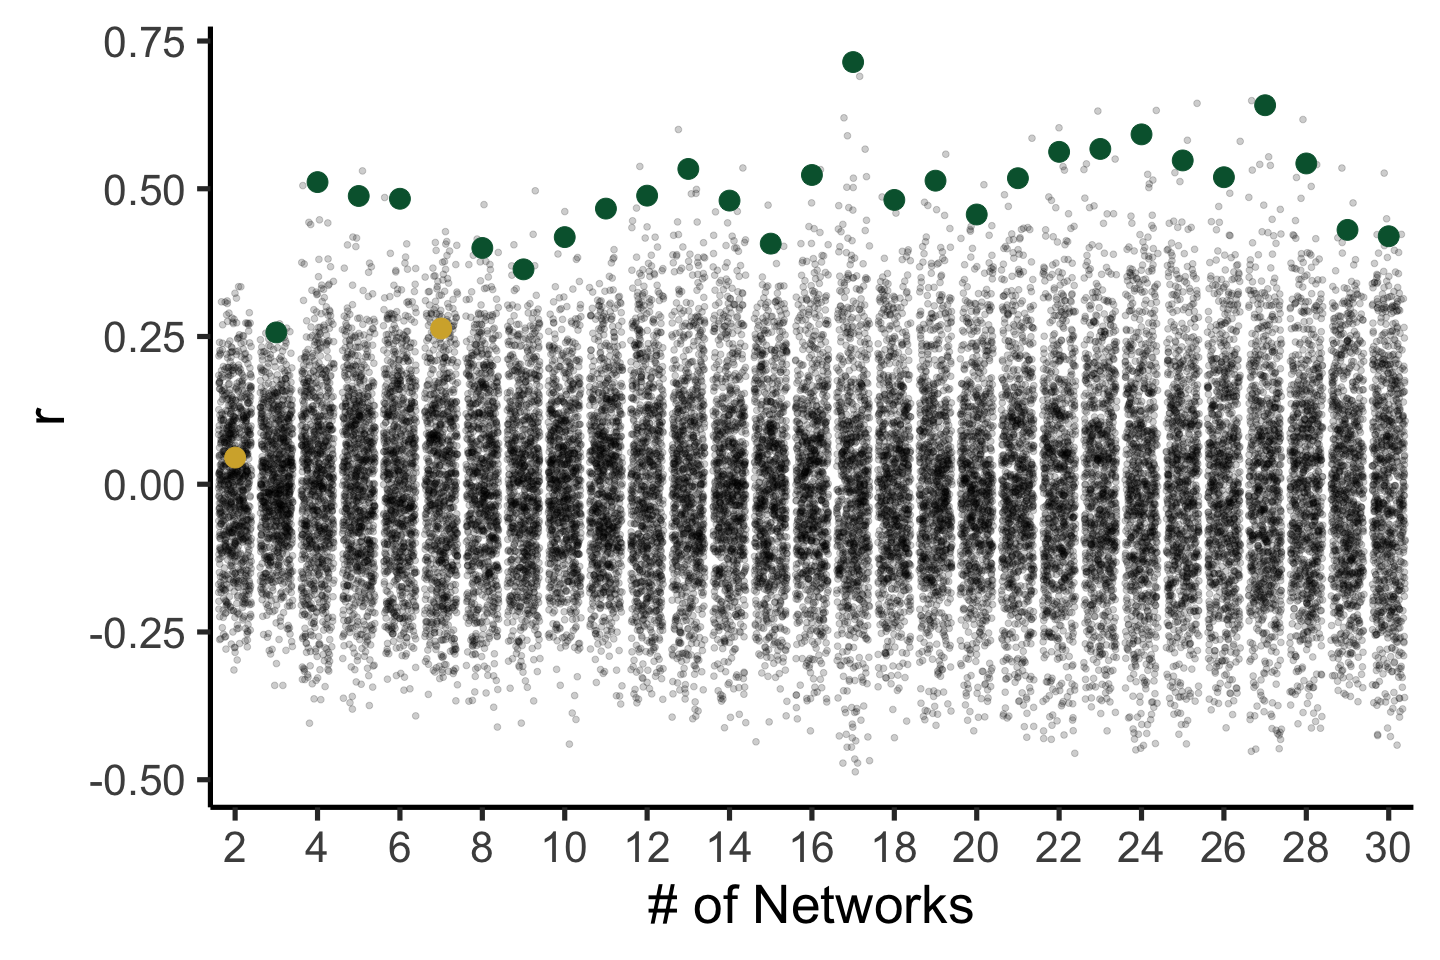
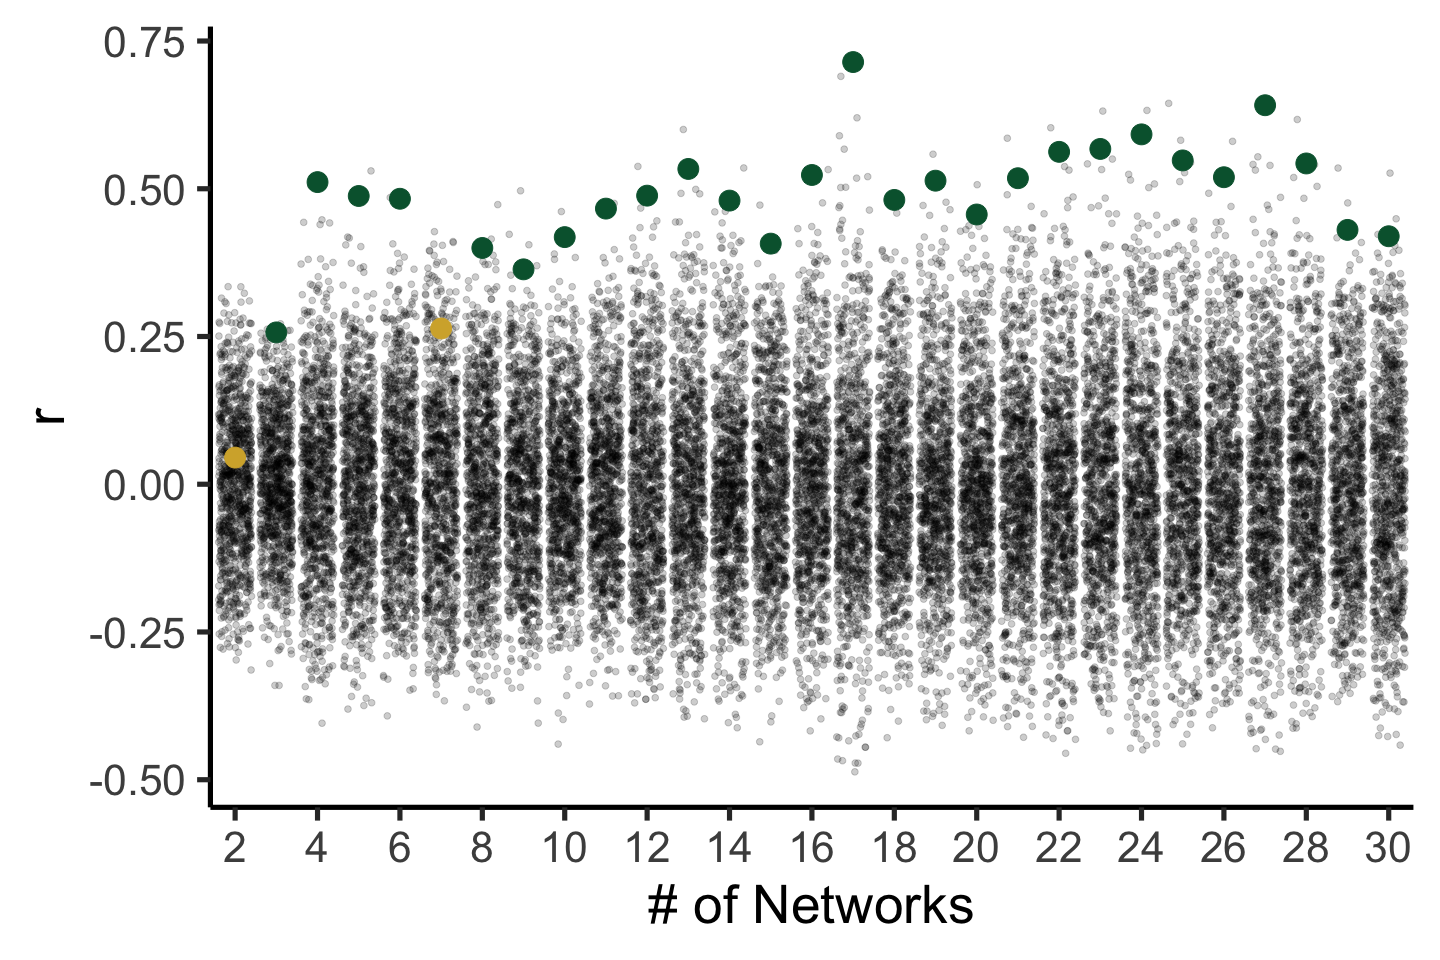
.md update for PG-MAD second-order eval.

Changed region(s): [[0.125, 0.1562, 1.0, 0.7812]]

diff --git a/scripts/analyses/Vertex-level-MAD_PG.md b/scripts/analyses/Vertex-level-MAD_PG.md
@@ -104,7 +104,7 @@ ggplot(m_spinDistr[m_spinDistr$RealCor==0,], aes(x = value, y = Scale, group = S
 
 ``` r
 skinnydf<-m_spinDistr[m_spinDistr$RealCor==1,]
-ggplot(skinnydf,aes(x=(as.numeric(Scale)+1),y=value))  +geom_point(size=6)+geom_smooth(method='lm',color='black',size=2)+theme_classic(base_size=40) + xlab('# of Networks') + ylab('r')+scale_x_continuous(breaks=seq(2,30,by=4))
+ggplot(skinnydf,aes(x=(as.numeric(Scale)+1),y=value))  +geom_smooth(method='lm',color='#0376B5',size=4)+geom_point(size=6)+theme_classic(base_size=40) + xlab('# of Networks') + ylab('r')+scale_x_continuous(breaks=seq(2,30,by=4))
 ```
 
     ## `geom_smooth()` using formula 'y ~ x'
@@ -126,3 +126,101 @@ print(cor.test(as.numeric(skinnydf$Scale),skinnydf$value))
     ## sample estimates:
     ##       cor 
     ## 0.5553866
+
+``` r
+# bootstrap section for 2C
+OG_MADPGCorr_by_scale_model<-lm(as.numeric(Scale)~value,data=skinnydf)
+# Extract Linear coef.
+OG_MADPGCorr_by_scale_model_LIN<-summary(OG_MADPGCorr_by_scale_model)$coefficients['value',]
+OG_MADPGCorr_by_scale_model_LIN_beta<-OG_MADPGCorr_by_scale_model_LIN['Estimate']
+
+
+### After bootstrapping on Cubic
+r1=read.csv('/cbica/projects/pinesParcels/multiscale/scripts/derive_spatialprops/PGMAD_Boot_ScaleBetas1.csv')
+r2=read.csv('/cbica/projects/pinesParcels/multiscale/scripts/derive_spatialprops/PGMAD_Boot_ScaleBetas2.csv')
+r3=read.csv('/cbica/projects/pinesParcels/multiscale/scripts/derive_spatialprops/PGMAD_Boot_ScaleBetas3.csv')
+r4=read.csv('/cbica/projects/pinesParcels/multiscale/scripts/derive_spatialprops/PGMAD_Boot_ScaleBetas4.csv')
+r5=read.csv('/cbica/projects/pinesParcels/multiscale/scripts/derive_spatialprops/PGMAD_Boot_ScaleBetas5.csv')
+r6=read.csv('/cbica/projects/pinesParcels/multiscale/scripts/derive_spatialprops/PGMAD_Boot_ScaleBetas6.csv')
+r7=read.csv('/cbica/projects/pinesParcels/multiscale/scripts/derive_spatialprops/PGMAD_Boot_ScaleBetas7.csv')
+r8=read.csv('/cbica/projects/pinesParcels/multiscale/scripts/derive_spatialprops/PGMAD_Boot_ScaleBetas8.csv')
+r9=read.csv('/cbica/projects/pinesParcels/multiscale/scripts/derive_spatialprops/PGMAD_Boot_ScaleBetas9.csv')
+r10=read.csv('/cbica/projects/pinesParcels/multiscale/scripts/derive_spatialprops/PGMAD_Boot_ScaleBetas10.csv')
+r11=read.csv('/cbica/projects/pinesParcels/multiscale/scripts/derive_spatialprops/PGMAD_Boot_ScaleBetas11.csv')
+r12=read.csv('/cbica/projects/pinesParcels/multiscale/scripts/derive_spatialprops/PGMAD_Boot_ScaleBetas12.csv')
+r13=read.csv('/cbica/projects/pinesParcels/multiscale/scripts/derive_spatialprops/PGMAD_Boot_ScaleBetas13.csv')
+r14=read.csv('/cbica/projects/pinesParcels/multiscale/scripts/derive_spatialprops/PGMAD_Boot_ScaleBetas14.csv')
+r15=read.csv('/cbica/projects/pinesParcels/multiscale/scripts/derive_spatialprops/PGMAD_Boot_ScaleBetas15.csv')
+r16=read.csv('/cbica/projects/pinesParcels/multiscale/scripts/derive_spatialprops/PGMAD_Boot_ScaleBetas16.csv')
+r17=read.csv('/cbica/projects/pinesParcels/multiscale/scripts/derive_spatialprops/PGMAD_Boot_ScaleBetas17.csv')
+r18=read.csv('/cbica/projects/pinesParcels/multiscale/scripts/derive_spatialprops/PGMAD_Boot_ScaleBetas18.csv')
+r19=read.csv('/cbica/projects/pinesParcels/multiscale/scripts/derive_spatialprops/PGMAD_Boot_ScaleBetas19.csv')
+r20=read.csv('/cbica/projects/pinesParcels/multiscale/scripts/derive_spatialprops/PGMAD_Boot_ScaleBetas20.csv')
+
+# split string to take out tab-delim'd column number, select second item (non-column number boot value)
+r1=sapply(strsplit(r1$x,' '), `[`,2)
+r2=sapply(strsplit(r2$x,' '), `[`,2)
+r3=sapply(strsplit(r3$x,' '), `[`,2)
+r4=sapply(strsplit(r4$x,' '), `[`,2)
+r5=sapply(strsplit(r5$x,' '), `[`,2)
+r6=sapply(strsplit(r6$x,' '), `[`,2)
+r7=sapply(strsplit(r7$x,' '), `[`,2)
+r8=sapply(strsplit(r8$x,' '), `[`,2)
+r9=sapply(strsplit(r9$x,' '), `[`,2)
+r10=sapply(strsplit(r10$x,' '), `[`,2)
+r11=sapply(strsplit(r11$x,' '), `[`,2)
+r12=sapply(strsplit(r12$x,' '), `[`,2)
+r13=sapply(strsplit(r13$x,' '), `[`,2)
+r14=sapply(strsplit(r14$x,' '), `[`,2)
+r15=sapply(strsplit(r15$x,' '), `[`,2)
+r16=sapply(strsplit(r16$x,' '), `[`,2)
+r17=sapply(strsplit(r17$x,' '), `[`,2)
+r18=sapply(strsplit(r18$x,' '), `[`,2)
+r19=sapply(strsplit(r19$x,' '), `[`,2)
+r20=sapply(strsplit(r20$x,' '), `[`,2)
+
+# extract first 50
+r1=r1[1:50]
+r2=r2[1:50]
+r3=r3[1:50]
+r4=r4[1:50]
+r5=r5[1:50]
+r6=r6[1:50]
+r7=r7[1:50]
+r8=r8[1:50]
+r9=r9[1:50]
+r10=r10[1:50]
+r11=r11[1:50]
+r12=r12[1:50]
+r13=r13[1:50]
+r14=r14[1:50]
+r15=r15[1:50]
+r16=r16[1:50]
+r17=r17[1:50]
+r18=r18[1:50]
+r19=r19[1:50]
+r20=r20[1:50]
+
+# slap 'em back together (all ran on different seeds)
+mergedBootStraps<-as.numeric(cbind(r1,r2,r3,r4,r5,r6,r7,r8,r9,r10,r11,r12,r13,r14,r15,r16,r17,r18,r19,r20))
+
+# range of Scale~MAD*PG Corr
+print(range(mergedBootStraps))
+```
+
+    ## [1] 36.09494 39.93656
+
+``` r
+# for linear - significance
+CI_LIN=quantile(mergedBootStraps,c(0.025,0.975)) 
+# discrete p calculation (https://www.bmj.com/content/343/bmj.d2304 as source)
+SE=(CI_LIN[2]-CI_LIN[1])/(2*1.96)
+z=OG_MADPGCorr_by_scale_model_LIN_beta/SE
+z=abs(z)
+pLIN<-exp((-0.717*z)-(0.416*(z^2)))
+# print out p-value of linear association between Scale and MAD*PG Correlation
+print(pLIN)
+```
+
+    ## Estimate 
+    ##        0
